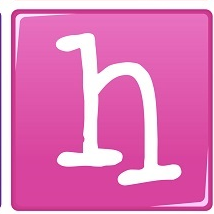
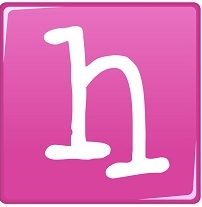
Some updates to my letters game

Changed region(s): [[0.2079, 0.1159, 0.8614, 0.8696], [0.0, 0.0, 1.0, 1.0], [0.6832, 0.7246, 1.0, 0.9855]]

diff --git a/5_JavaScript/2_Game/Letters/letters.css b/5_JavaScript/2_Game/Letters/letters.css
@@ -3,11 +3,11 @@ html {min-height: 100vh;}
 body { font-family: Arial, Helvetica, sans-serif; margin: 0; background: radial-gradient(orange,brown);}
 .container { display: grid; grid-template-columns: repeat(4, auto); grid-gap: 10px; margin: 50px; justify-content: center;
     perspective: 500px; }
-.card { position: relative; height: 200px; width: 200px; overflow: hidden;}
+.card { position: relative; height: 210px; width: 210px; overflow: hidden; }
 .card-face { position: absolute; width: 100%; height: 100%; display: flex; justify-content: center; align-items: center;
-    backface-visibility: hidden; border-radius: 12px; border-width: 2px; border-style: solid;}
+    border-radius: 12px; border-width: 2px; border-style: solid; backface-visibility: hidden; }
 .hidden { visibility: hidden;}
-.card-front { transform: rotateY(180deg);}
-.card:hover .card-back { transform: rotateY(-180);}
-.card:hover .card-front { transform: rotateY(0);}
-.card-front, .card-back { transition: transform 1s; transform-style: preserve-3d;}
+.card-front { transform: rotateY(180deg); transform: scale(0.9); transition: transform 100ms ease-in-out; transform-style: preserve-3d; }
+.card-back { transform: rotateY(180deg); transition: transform 1s ease-in-out; transform-style: preserve-3d; }
+.card:hover .card-back { transform: rotateY(0); }
+.card:hover .card-front { transform: scale(1); }
